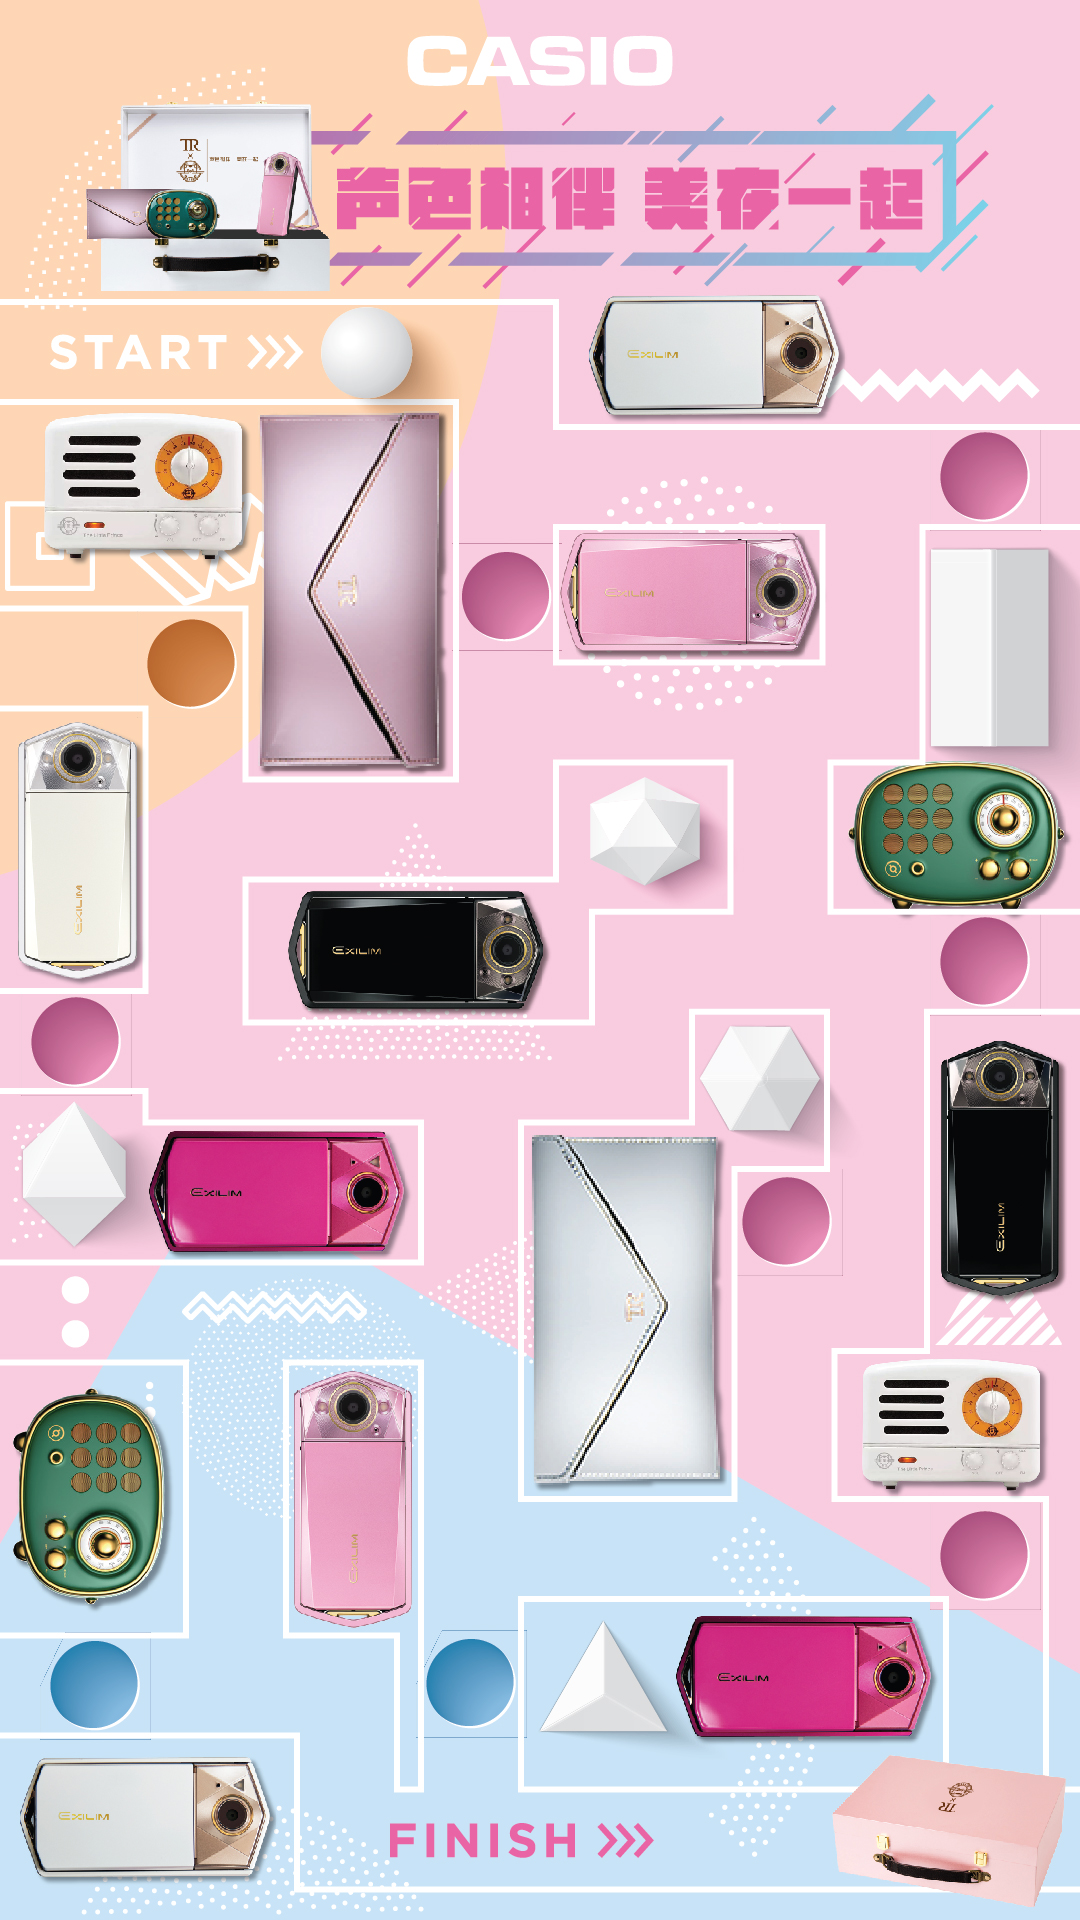
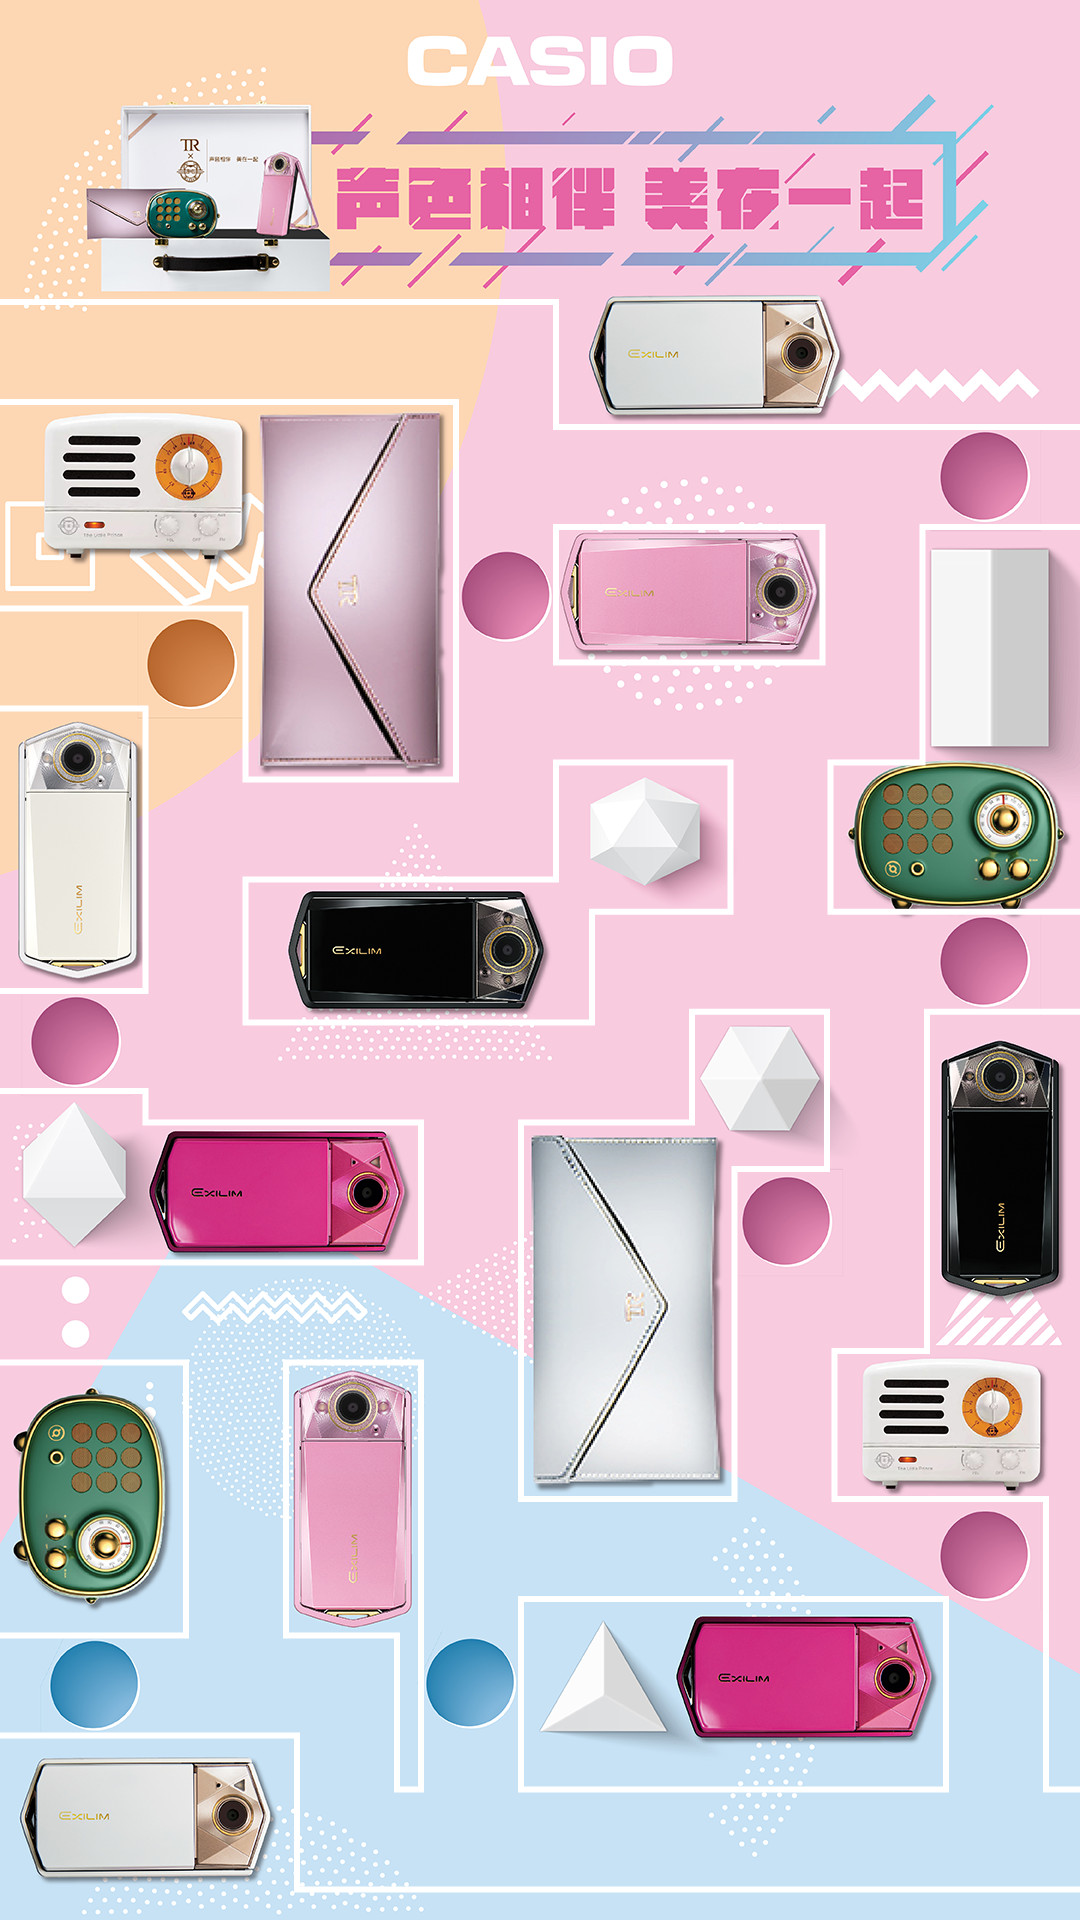
complete game graphics

diff --git a/src/Game.js b/src/Game.js
@@ -14,6 +14,8 @@ Game.prototype = {
 		this.load.image('ball', 'img/p4/ball.png')
 		this.load.physics('ball', 'img/p4/ball.json')
 		this.load.image('destination', 'img/p4/destination.png');
+		game.load.spritesheet('start', 'img/p4/start.254x36.png', 254, 36);
+		game.load.spritesheet('finish', 'img/p4/finish.264x35.png', 264, 35);
 	},
 	create: function () {
 		this.physics.startSystem(Phaser.Physics.P2JS)
@@ -26,10 +28,19 @@ Game.prototype = {
 		var mazeCollisionGroup = game.physics.p2.createCollisionGroup()
 		var trapCollisionGroup = game.physics.p2.createCollisionGroup()
 		var destCollisionGroup = game.physics.p2.createCollisionGroup()
+
 		var maze = this.add.sprite(540, 960, 'maze');
+
+		var startSprite = game.add.sprite(49, 335, 'start')
+		var startBlinkAnimation = startSprite.animations.add('blink')
+		startSprite.animations.play('blink', 4, true)
+		var finishSprite = game.add.sprite(390, 1824, 'finish')
+		var finishBlinkAnimation = finishSprite.animations.add('blink')
+		finishSprite.animations.play('blink', 4, true)
+
 		var trap = this.add.sprite(540, 960)
 		var ball = this.add.sprite(50, 380, 'ball');
-		var dest = this.add.sprite(540, 960, 'destination');
+		var dest = this.add.sprite(958, 1778, 'destination');
 		game.physics.p2.enable([maze, trap, ball, dest]);
 		maze.body.clearShapes();
 		maze.body.loadPolygon('maze', 'maze');
@@ -58,33 +69,33 @@ Game.prototype = {
 		ball.body.fixedRotation = true
 		ball.body.setCollisionGroup(ballCollisionGroup)
 		ball.body.collides(mazeCollisionGroup)
-		ball.body.mass=0.2
+		ball.body.mass = 0.2
 		var restartGame = function () {
 			this.game.state.restart();
 		}
 		var winGame = function () {
-      prizeURL = getPrizeURL();
-      sendplayed();
-      window.location.href = prizeURL;
+			prizeURL = getPrizeURL();
+			sendplayed();
+			window.location.href = prizeURL;
 		}
 		ball.body.collides(trapCollisionGroup, restartGame)
 		ball.body.collides(destCollisionGroup, winGame)
 	},
-	update: function() {
-		if(this.keys.left.isDown) {
-      game.physics.p2.gravity.x =-60
+	update: function () {
+		if (this.keys.left.isDown) {
+			game.physics.p2.gravity.x = -60
 		}
-		else if(this.keys.right.isDown) {
-      game.physics.p2.gravity.x = 60
+		else if (this.keys.right.isDown) {
+			game.physics.p2.gravity.x = 60
 
 		}
-		if(this.keys.up.isDown) {
-      game.physics.p2.gravity.y = -60
+		if (this.keys.up.isDown) {
+			game.physics.p2.gravity.y = -60
 		}
-		else if(this.keys.down.isDown) {
-      game.physics.p2.gravity.y = 60
+		else if (this.keys.down.isDown) {
+			game.physics.p2.gravity.y = 60
 		}
-},
+	},
 	handleOrientation: function (e) {
 		// Device Orientation API
 		var x = e.gamma; // range [-90,90], left-right
